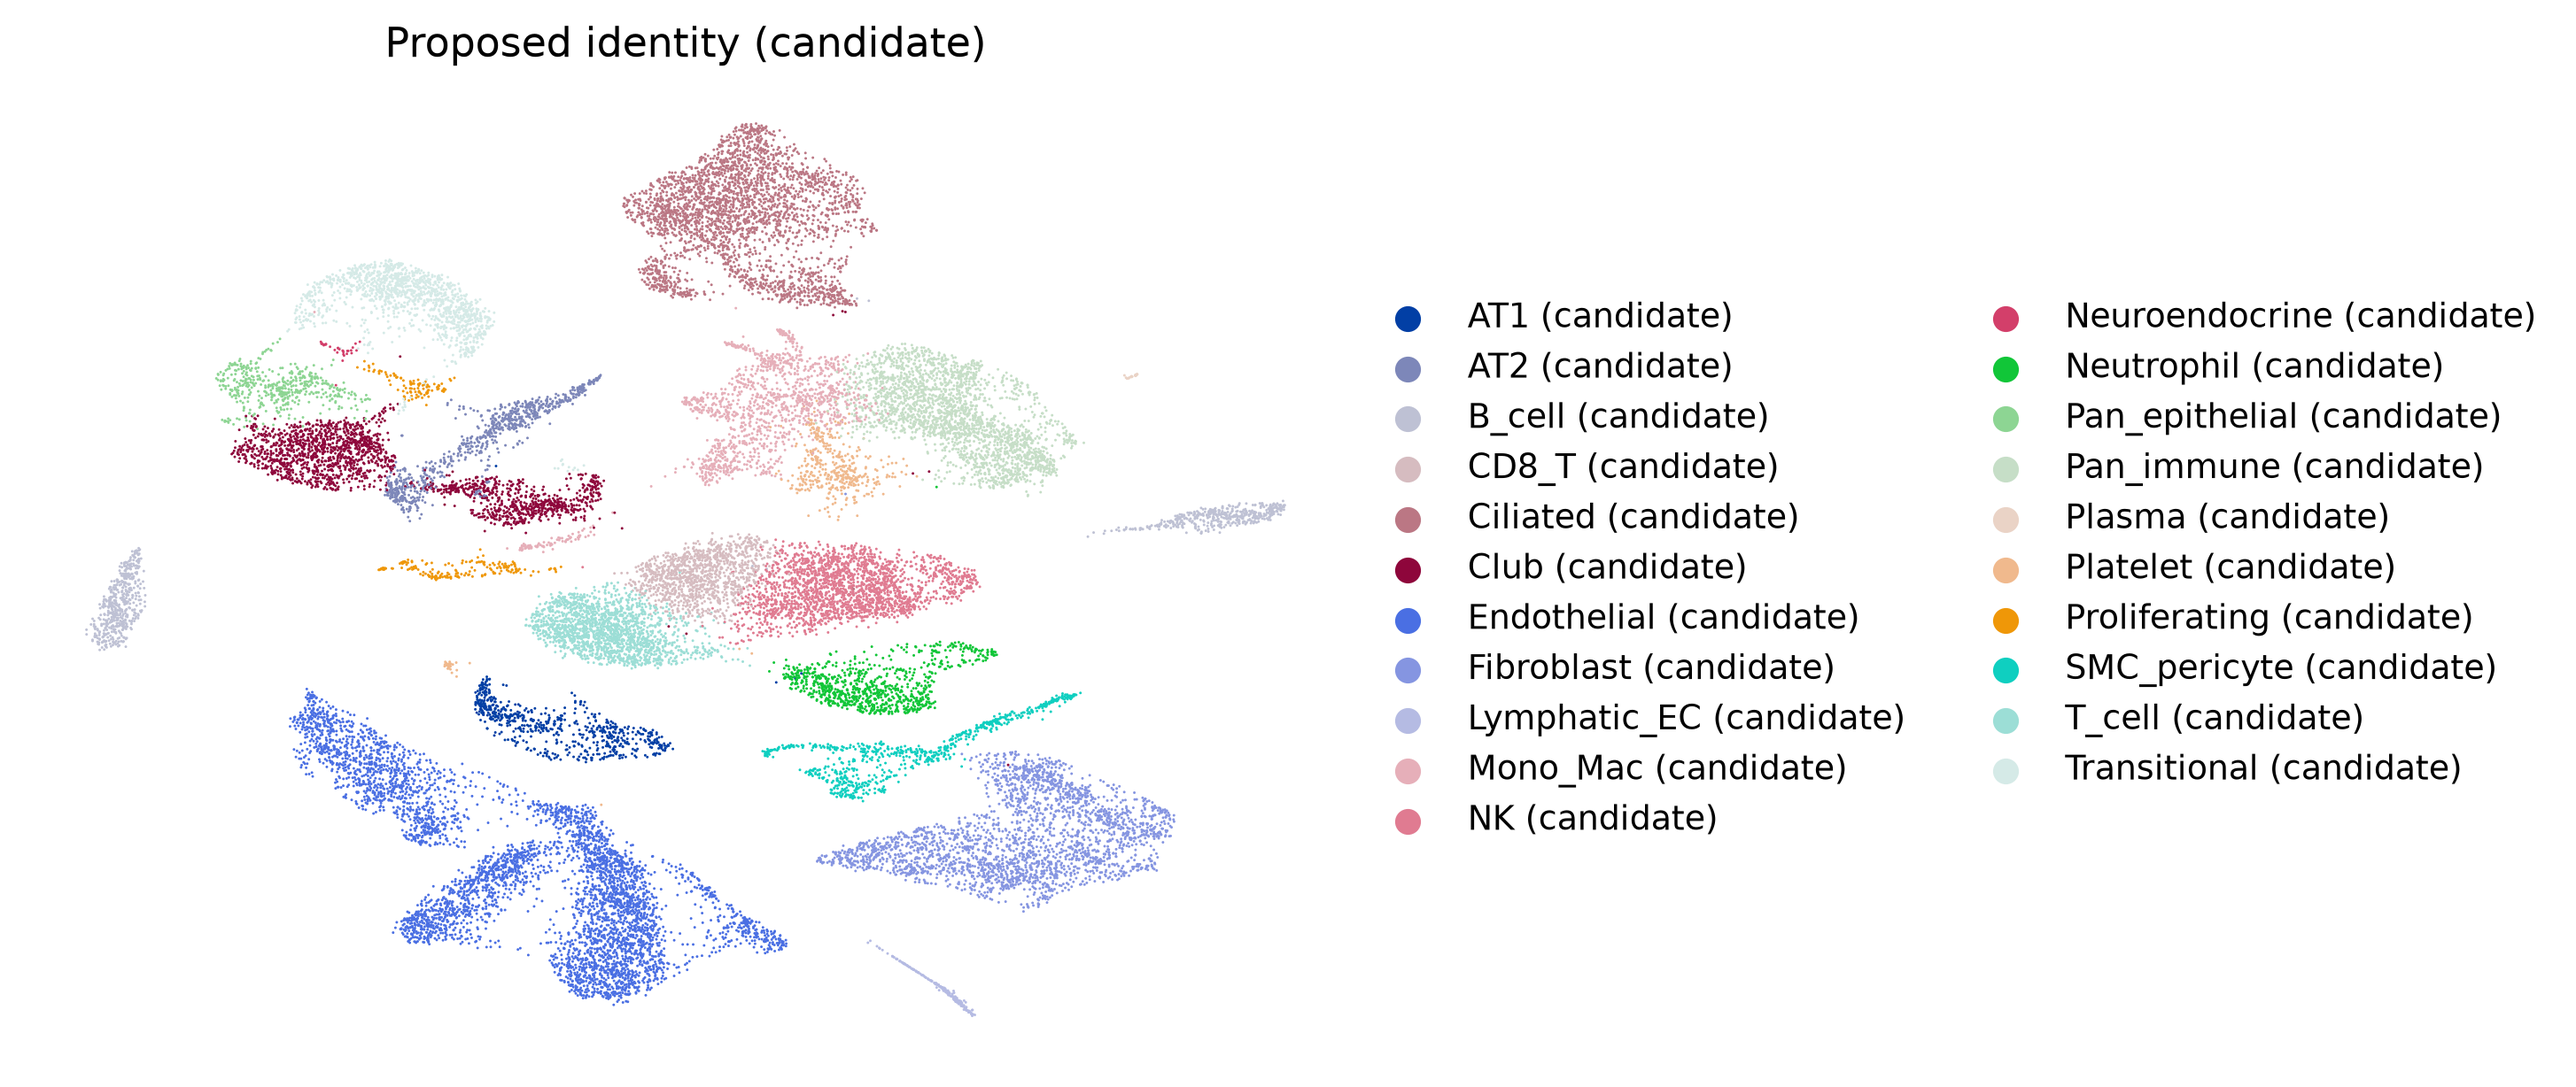
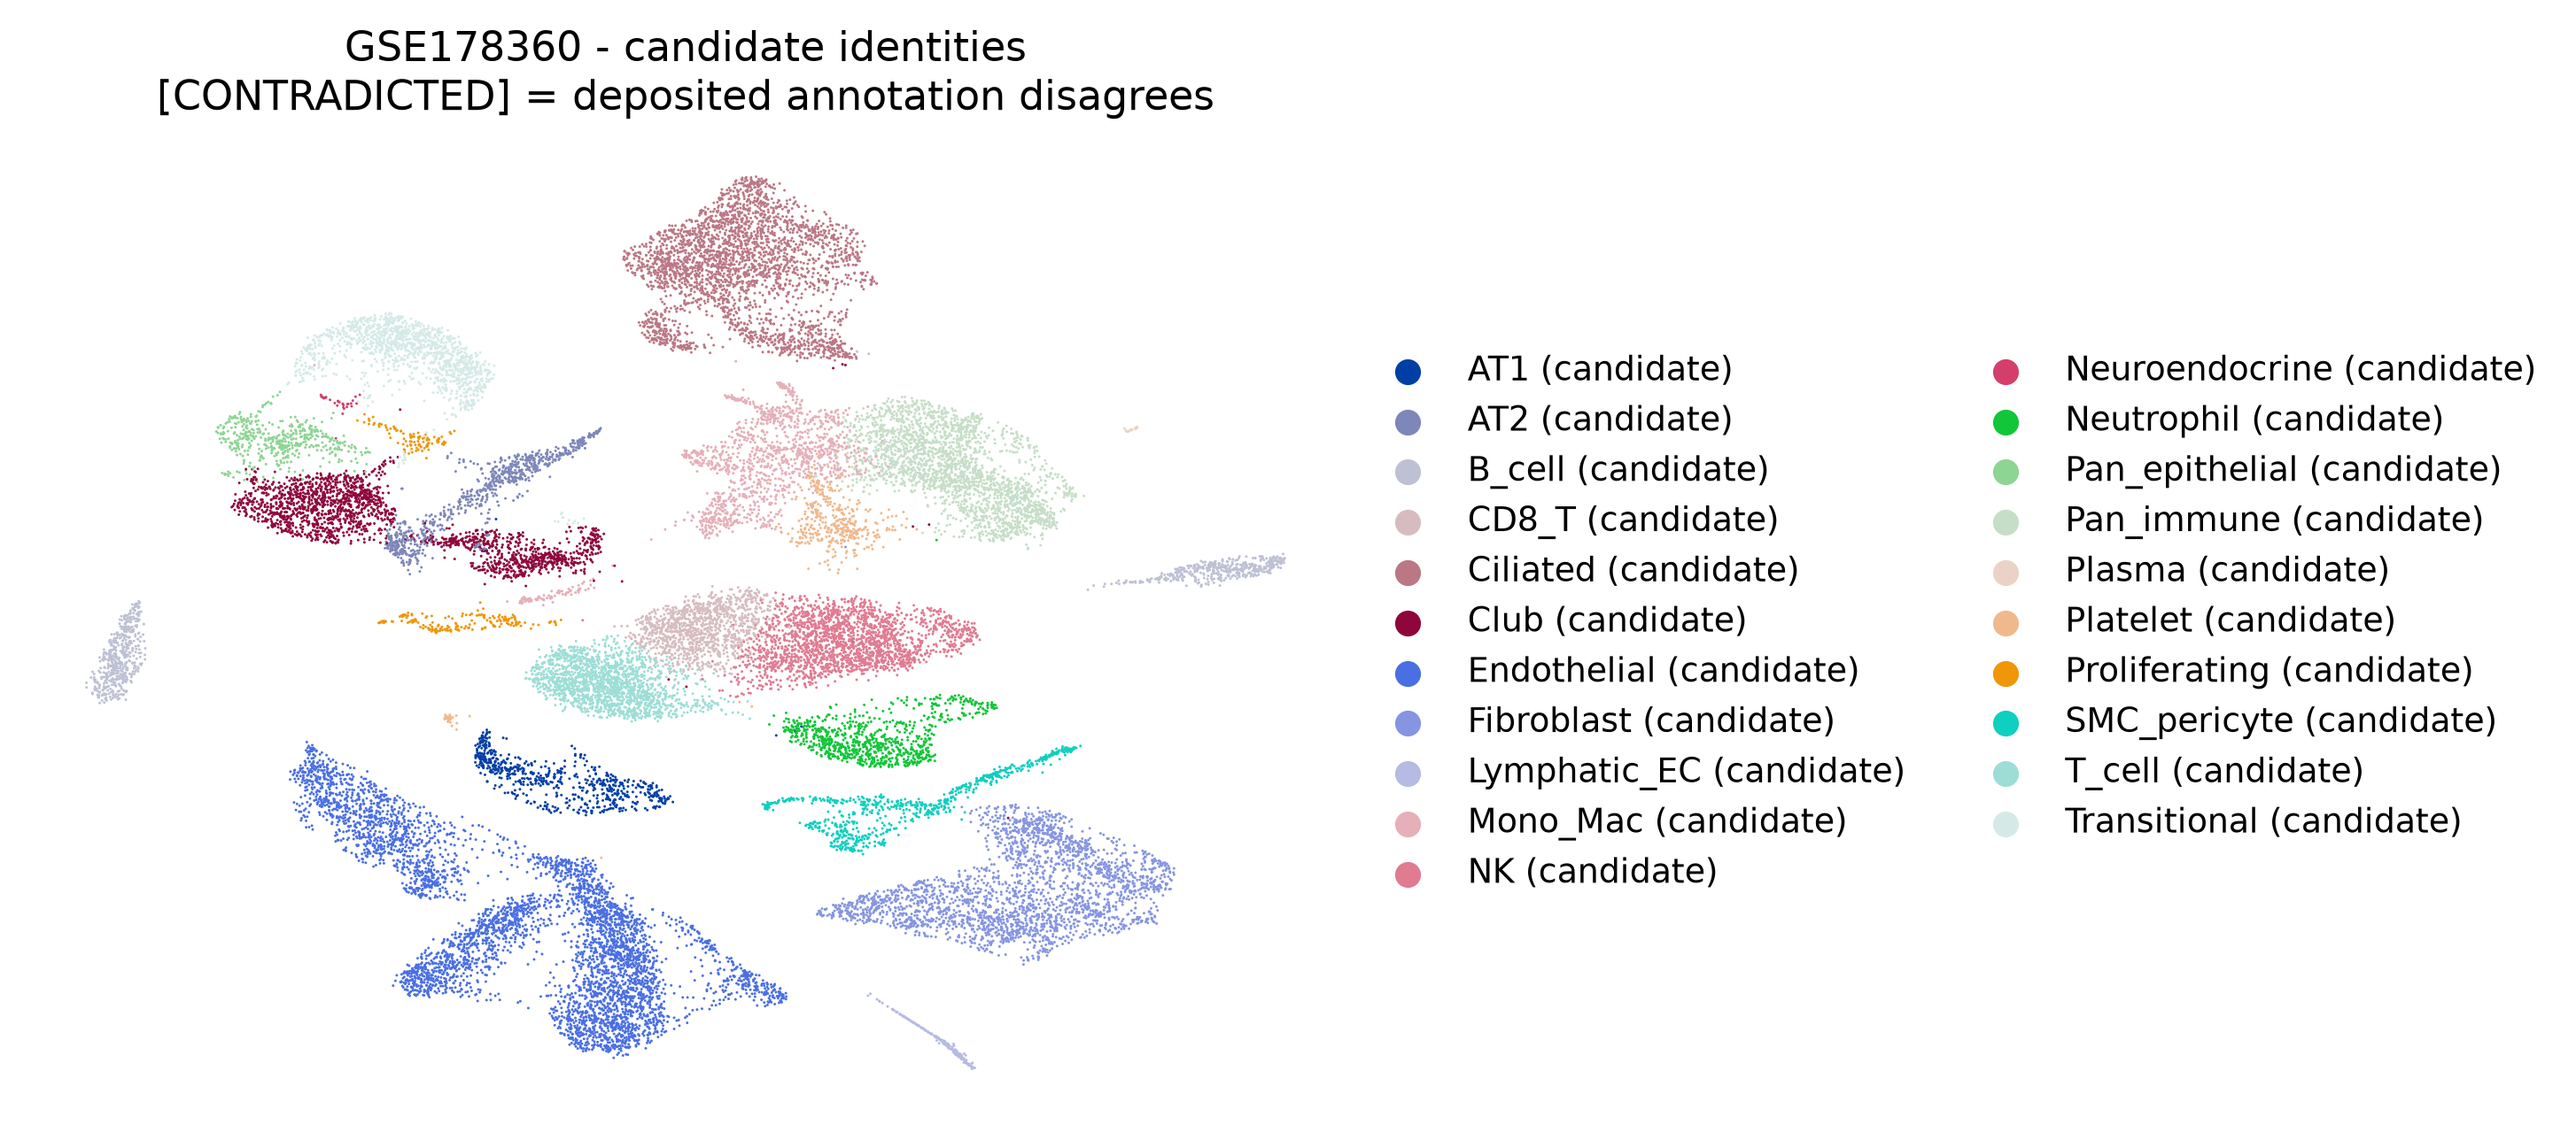
Flag candidate annotations that the deposited labels contradict
The whole-atlas embedding and clustering are unchanged - verified: the
HVG-restricted resolution scan gives 100% marker-supported at all four
resolutions, exactly as the full-gene-space scan did, so resolution 0.3 and the
29 clusters stand and every embedding-based figure remains faithful.

What was stale was the annotation. The marker panel called cluster 0
"Transitional (candidate)" when it is 89.2% CAP1 capillary endothelium - its
top genes are interferon-stimulated (Iigp1, Gbp4, Igtp, Isg15). In a repository
about transitional cells that is precisely the wrong error to leave standing.

The deposited author label is now reported alongside every proposal and, where
the two conflict, the proposal is marked [CONTRADICTED] in the value itself so
the flag survives into figures and exports rather than living only in a table.
The labels are still never used for scoring, so the 0.947 agreement statistic
remains an independent check.

Refining the comparison mattered as much as adding it. The first pass raised 8
contradictions, but three were faults in the check: Krt5 IS the deposited name
for basal cells, and "Proliferating" is a cell-cycle state that is not
comparable to a lineage label at all. After correcting those, and declining to
judge clusters with under 50 annotated cells, the honest count is 21 of 29
agreeing and 3 genuine contradictions - clusters 0, 22 and 25.

Only the annotation UMAP needed redrawing; the embedding did not change.

diff --git a/analysis/scripts/run_scrna_analysis.py b/analysis/scripts/run_scrna_analysis.py
@@ -1224,13 +1224,88 @@ def annotate_clusters(adata: ad.AnnData, markers_df: pd.DataFrame, dirs: dict,
         })
 
     df = pd.DataFrame(rows)
+
+    # Report the deposited label alongside each proposal where one exists.
+    # This is REPORTED ONLY and never enters the scoring, so the agreement
+    # statistic stays an independent check - but a reader can immediately see
+    # when a marker-panel proposal contradicts the deposited annotation, which
+    # is exactly the case a candidate label must not be trusted in.
+    if "author_celltype" in adata.obs and "has_author_metadata" in adata.obs:
+        m = adata.obs["has_author_metadata"].astype(str).isin(["True", "true"])
+        if m.sum():
+            sub = adata.obs.loc[m.to_numpy()]
+            ct = pd.crosstab(sub[groupby].astype(str),
+                             sub["author_celltype"].astype(str))
+            frac = ct.div(ct.sum(axis=1).replace(0, np.nan), axis=0)
+            dom = frac.idxmax(axis=1)
+            pur = frac.max(axis=1)
+            key = df["Cluster"].astype(str)
+            df["Deposited label (dominant)"] = key.map(dom).fillna("n/a")
+            df["Deposited label %"] = (100 * key.map(pur)).round(1)
+            df["Annotated cells"] = key.map(ct.sum(axis=1)).fillna(0).astype(int)
+
+            def _flag(r):
+                d = str(r["Deposited label (dominant)"])
+                if d in ("n/a", "nan"):
+                    return ""
+                prop = str(r["Proposed identity"]).replace(" (candidate)", "")
+                p = prop.lower().replace("_", "")
+                dl = d.lower().replace("_", "")
+                # Cell-cycle and stress calls describe a STATE, not a lineage,
+                # so they are not comparable to a lineage label and must not be
+                # reported as a contradiction.
+                if p in {"proliferating"}:
+                    return "not comparable (state, not lineage)"
+                if p in dl or dl in p:
+                    return "agrees"
+                # families naming the same population differently
+                fam = [{"endothelial", "endothelialcap", "cap1", "cap2",
+                        "venousendothelium", "arterialendothelium"},
+                       {"fibroblast", "fibroactivated", "af1", "af2",
+                        "adventitialfibroblast", "peribronchialfibroblast"},
+                       {"monomac", "alveolarmac", "amac", "imac", "cmon",
+                        "imon", "pmon", "dc", "cdc1", "cdc2", "madc",
+                        "neutrophil"},
+                       {"tcell", "cd4t", "cd8t", "treg", "tlymphocyte",
+                        "nk", "nkcell"},
+                       {"bcell", "blymphocyte", "plasma", "plasmacell"},
+                       {"smcpericyte", "vsmc"},
+                       {"lymphaticec", "lymphaticendothelium"},
+                       # Krt5 IS the deposited name for basal cells
+                       {"basal", "krt5"},
+                       {"club", "secretory"},
+                       {"transitional", "alveolartransitional"},
+                       {"at1", "at1at2"}, {"at2", "at1at2"}]
+                for f in fam:
+                    if p in f and dl in f:
+                        return "agrees (same lineage)"
+                if int(r.get("Annotated cells", 0) or 0) < 50:
+                    return "too few annotated cells to judge"
+                return "DISAGREES - treat the proposal as unreliable"
+
+            df["Deposition check"] = df.apply(_flag, axis=1)
+            n_dis = int(df["Deposition check"].astype(str)
+                        .str.startswith("DISAGREES").sum())
+            record("annotation_vs_deposited_labels",
+                   f"{n_dis} of {len(df)} clusters have a marker-panel proposal "
+                   f"that contradicts the dominant deposited label; those rows "
+                   f"are flagged in {outfile} and their proposals should not be "
+                   f"used")
+
     df.to_csv(dirs["tables"] / outfile, index=False)
     mean.to_csv(dirs["tables"] / "canonical_marker_mean_expression_by_cluster.csv")
     frac.to_csv(dirs["tables"] / "canonical_marker_fraction_expressing_by_cluster.csv")
 
+    # A proposal the deposited annotation contradicts must not travel as a
+    # plain label - it would be read as a finding. Mark it in the value itself,
+    # so the flag survives into every figure and export, not only the table.
+    labels = df["Proposed identity"].astype(str).copy()
+    if "Deposition check" in df.columns:
+        bad = df["Deposition check"].astype(str).str.startswith("DISAGREES")
+        labels = labels.where(~bad, labels + " [CONTRADICTED]")
     adata.obs["proposed_cell_type"] = (
         adata.obs[groupby].astype(str)
-        .map(dict(zip(df["Cluster"].astype(str), df["Proposed identity"]))))
+        .map(dict(zip(df["Cluster"].astype(str), labels))))
     record("annotation_strategy",
            "candidate identities scored per cluster from z-scored mean "
            "expression of curated panels, down-weighted by the fraction of "

diff --git a/docs/PIPELINE_AS_RUN.md b/docs/PIPELINE_AS_RUN.md
@@ -209,7 +209,7 @@ if R becomes available.
 | UMAP | scanpy defaults min_dist=0.5, spread=1.0, random_state=0 |
 | Clustering | Leiden (igraph flavour, 2 iterations) scanned at resolutions [0.3, 0.5, 0.8, 1.0]. Primary resolution: 0.3. No resolution satisfied all three criteria, so the resolution with the fewest under-separated neighbouring cluster pairs (1) and the fewest undersized clusters (2) was taken. Every finer resolution produced neighbouring clusters that no gene separates, which is the signature of over-clustering. All resolutions are retained as leiden_res* columns. |
 | Final clusters | **29** at resolution 0.3 |
-| Marker test | Wilcoxon rank-sum (scanpy rank_genes_groups, one cluster vs all remaining cells) on log1p(CP10K) values, with expressing fractions |
+| Marker test | Wilcoxon rank-sum (scanpy rank_genes_groups, one cluster vs all remaining cells) on log1p(CP10K) values, with expressing fractions; table re-used from the previous run of this same pipeline |
 | Annotation | candidate identities scored per cluster from z-scored mean expression of curated panels, down-weighted by the fraction of cells expressing each marker; numeric Leiden labels are preserved and no candidate is promoted to a definitive label |
 | Epithelial sub-analysis | performed on 13333 cells from clusters ['10', '16', '18', '19']; 16 epithelial subclusters at Leiden resolution 0.6 |
 | Condition DE | EXPLORATORY ONLY. Sample-level pseudobulk with n=2 homeostasis and n=23 infected samples. The homeostasis arm is not replicated within a group and is confounded with sex, so this is not a confirmatory differential-expression result. |
@@ -264,7 +264,7 @@ Full record: `analysis/logs/analysis_log.txt`, `analysis/logs/decisions.json`,
 | UMAP | scanpy defaults min_dist=0.5, spread=1.0, random_state=0 |
 | Clustering | Leiden (igraph flavour, 2 iterations) scanned at resolutions [0.3, 0.5, 0.8, 1.0]. Primary resolution: 1.0. It was the finest resolution at which no cluster falls below 20 cells, at least 90% of clusters carry >=5 specific marker genes against the rest of the data, and every cluster is also separated from its NEAREST neighbouring cluster by at least 10 genes (adj. p<0.05, |log2FC|>1, >25% expressing) - the last condition is what prevents simply picking whichever resolution yields the most clusters All resolutions are retained as leiden_res* columns. |
 | Final clusters | **31** at resolution 1.0 |
-| Marker test | Wilcoxon rank-sum (scanpy rank_genes_groups, one cluster vs all remaining cells) on log1p(CP10K) values, with expressing fractions |
+| Marker test | Wilcoxon rank-sum (scanpy rank_genes_groups, one cluster vs all remaining cells) on log1p(CP10K) values, with expressing fractions; table re-used from the previous run of this same pipeline |
 | Annotation | candidate identities scored per cluster from z-scored mean expression of curated panels, down-weighted by the fraction of cells expressing each marker; numeric Leiden labels are preserved and no candidate is promoted to a definitive label |
 | Epithelial sub-analysis | performed on 7446 cells from clusters ['11', '12', '16', '18', '24', '25', '26', '29', '30']; 20 epithelial subclusters at Leiden resolution 0.6 |
 | Condition DE | not performed |

diff --git a/PROGRESS.md b/PROGRESS.md
@@ -125,6 +125,14 @@ clusters fell 20/41 → 4/31 and `donor_driven_clustering_check` now reports fal
    `04_recover_decisions.py` (decision persistence was added mid-session). Fresh
    runs do not need this.
 
+10. **Candidate annotations are contradicted by the deposited labels for 3 of
+   29 mouse clusters** (0, 22, 25) and are flagged `[CONTRADICTED]` in
+   `tables/cluster_annotation_proposals.csv` and in the annotation UMAP.
+   Cluster 0 is the important one: the marker panel called it "Transitional"
+   but it is 89.2% CAP1 capillary endothelium (its top genes are
+   interferon-stimulated). 21 of 29 agree. Trust the deposited label where the
+   two conflict.
+
 ---
 
 ## Pending work
